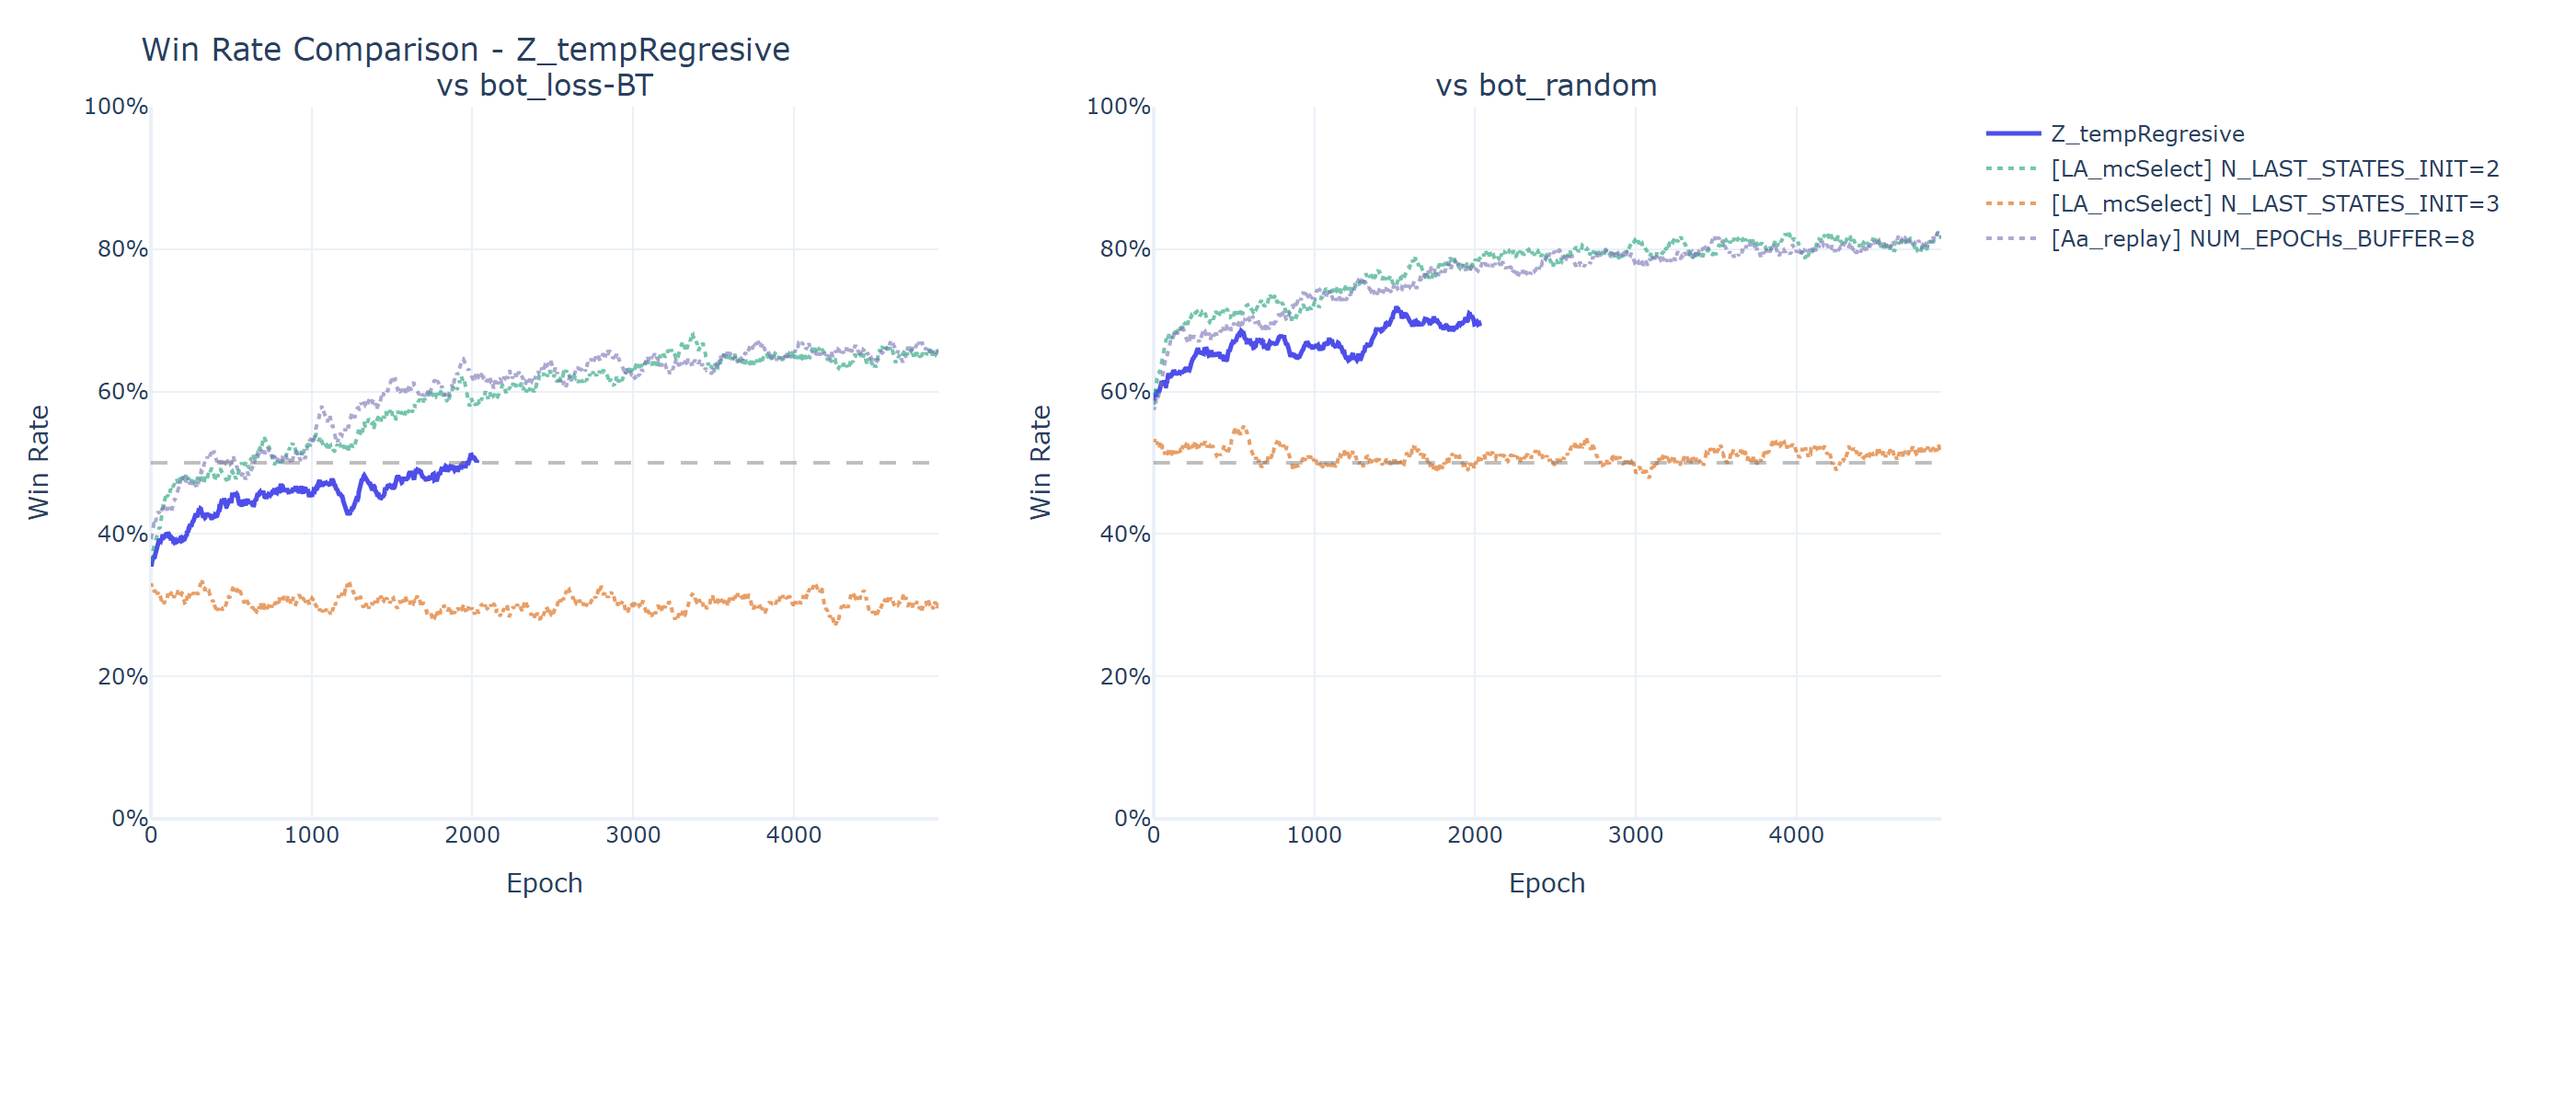
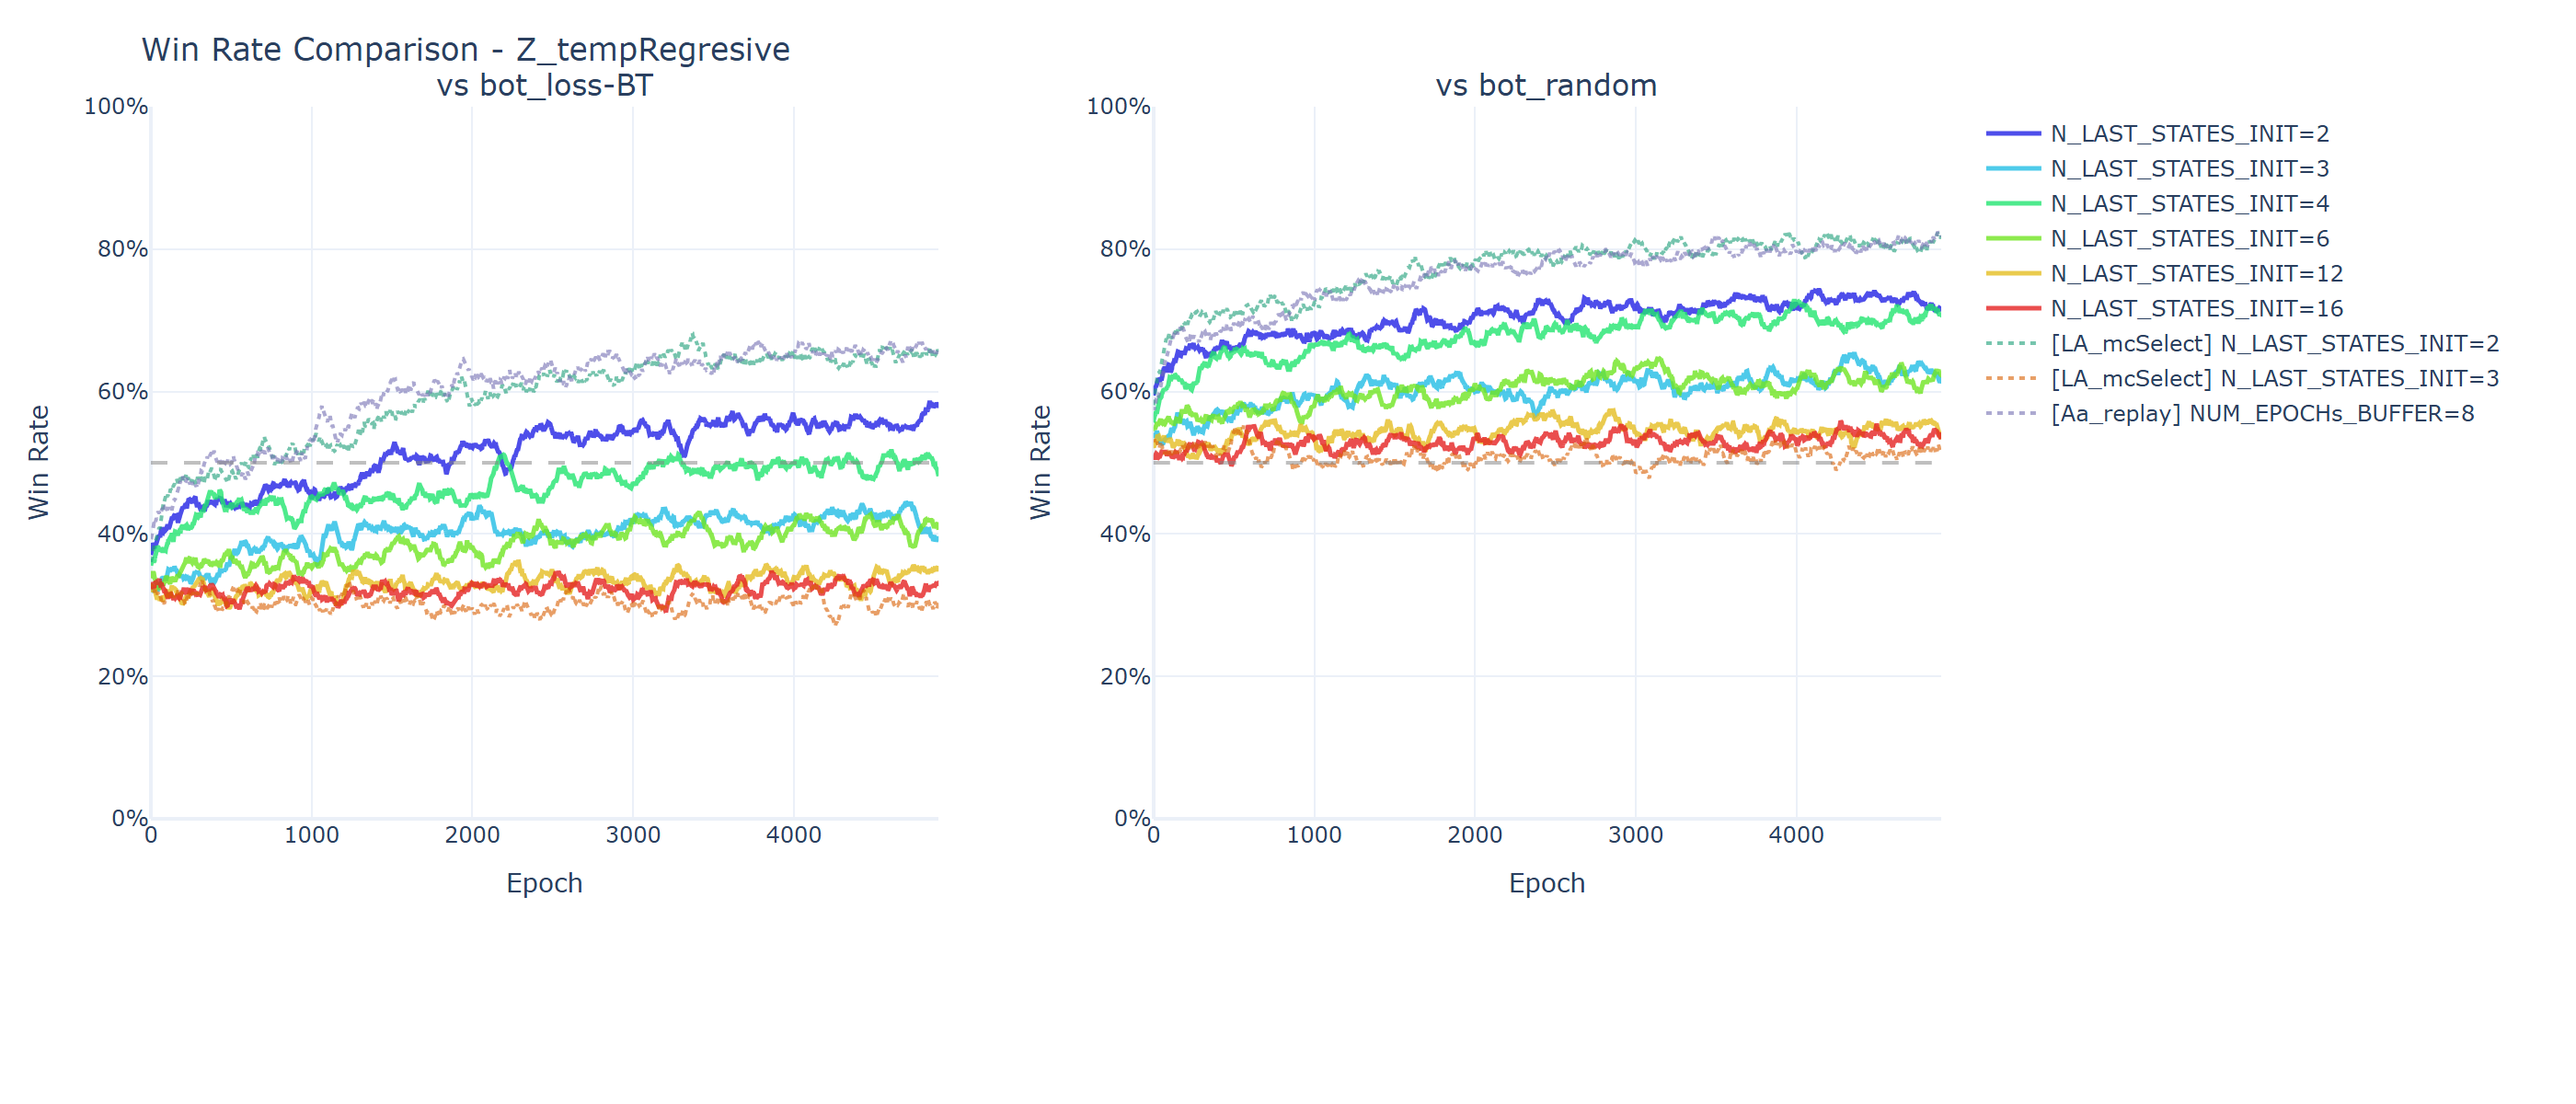
:alembic: upload Z_tempRegresive results

Changed region(s): [[0.435, 0.0925, 0.9632, 0.4317], [0.0621, 0.37, 0.3729, 0.555]]

diff --git a/tools/compare_training.py b/tools/compare_training.py
@@ -55,7 +55,7 @@ from tqdm import tqdm
 # PARAM_NAME = "N_LAST_STATES_INIT"
 
 EXPERIMENT_NAME = "Z_tempRegresive"
-PARAM_NAME = ""
+PARAM_NAME = "N_LAST_STATES_INIT"
 
 # BASELINEs: Include specific runs from previous experiments as reference points
 # Format: List of dicts mapping experiment name to list of parameter values

diff --git a/results/Z_tempRegresive/summary_Z_tempRegresive.md b/results/Z_tempRegresive/summary_Z_tempRegresive.md
@@ -1,16 +1,21 @@
 # Summary — Z_tempRegresive
 
-Generated: 2026-04-24 19:02
-Parameter varied: ``
-Runs: 1 (+ 3 baselines)
+Generated: 2026-04-26 11:01
+Parameter varied: `N_LAST_STATES_INIT`
+Runs: 6 (+ 3 baselines)
 
 Final metrics = mean over the last 10% of epochs. `Peak` = max of the smoothed win-rate curve reached at any point during training.
 
 ## Experiment runs
 
-| Run             | Param | Epochs | Final loss | Final vs bot_loss-BT | Peak vs bot_loss-BT | Final vs bot_random | Peak vs bot_random |
-|-----------------|-------|--------|------------|----------------------|---------------------|---------------------|--------------------|
-| Z_tempRegresive | =1    | 2130   | 0.3480     | 50.0%                | 51.3%               | 69.5%               | 72.0%              |
+| Run                                          | Param                 | Epochs | Final loss | Final vs bot_loss-BT | Peak vs bot_loss-BT | Final vs bot_random | Peak vs bot_random |
+|----------------------------------------------|-----------------------|--------|------------|----------------------|---------------------|---------------------|--------------------|
+| Z_tempRegresive(1)0424_N_LAST_STATES_INIT_2  | N_LAST_STATES_INIT=2  | 5000   | 0.3143     | 56.0%                | 58.7%               | 72.8%               | 74.4%              |
+| Z_tempRegresive(2)0424_N_LAST_STATES_INIT_3  | N_LAST_STATES_INIT=3  | 5000   | 0.3879     | 41.8%                | 44.6%               | 62.5%               | 65.5%              |
+| Z_tempRegresive(3)0424_N_LAST_STATES_INIT_4  | N_LAST_STATES_INIT=4  | 5000   | 0.4200     | 49.7%                | 51.9%               | 70.7%               | 72.9%              |
+| Z_tempRegresive(4)0424_N_LAST_STATES_INIT_6  | N_LAST_STATES_INIT=6  | 5000   | 0.4241     | 41.0%                | 43.2%               | 61.8%               | 64.8%              |
+| Z_tempRegresive(5)0424_N_LAST_STATES_INIT_12 | N_LAST_STATES_INIT=12 | 5000   | 0.4127     | 34.5%                | 36.4%               | 54.9%               | 57.6%              |
+| Z_tempRegresive(6)0424_N_LAST_STATES_INIT_16 | N_LAST_STATES_INIT=16 | 5000   | 0.3919     | 32.7%                | 34.9%               | 53.7%               | 55.9%              |
 
 ## Baselines
 
@@ -22,6 +27,6 @@ Final metrics = mean over the last 10% of epochs. `Peak` = max of the smoothed w
 
 ## Best runs (experiments only)
 
-- Lowest final loss: **Z_tempRegresive** — 0.3480
-- Highest final WR vs bot_loss-BT: **Z_tempRegresive** — 50.0%
-- Highest final WR vs bot_random: **Z_tempRegresive** — 69.5%
+- Lowest final loss: **Z_tempRegresive(1)0424_N_LAST_STATES_INIT_2** — 0.3143
+- Highest final WR vs bot_loss-BT: **Z_tempRegresive(1)0424_N_LAST_STATES_INIT_2** — 56.0%
+- Highest final WR vs bot_random: **Z_tempRegresive(1)0424_N_LAST_STATES_INIT_2** — 72.8%

diff --git a/results/Zpre_tempRegresive/summary_Zpre_tempRegresive.md b/results/Zpre_tempRegresive/summary_Zpre_tempRegresive.md
@@ -1,0 +1,27 @@
+# Summary — Zpre_tempRegresive
+
+Generated: 2026-04-24 19:02
+Parameter varied: ``
+Runs: 1 (+ 3 baselines)
+
+Final metrics = mean over the last 10% of epochs. `Peak` = max of the smoothed win-rate curve reached at any point during training.
+
+## Experiment runs
+
+| Run             | Param | Epochs | Final loss | Final vs bot_loss-BT | Peak vs bot_loss-BT | Final vs bot_random | Peak vs bot_random |
+|-----------------|-------|--------|------------|----------------------|---------------------|---------------------|--------------------|
+| Zpre_tempRegresive | =1    | 2130   | 0.3480     | 50.0%                | 51.3%               | 69.5%               | 72.0%              |
+
+## Baselines
+
+| Run                                     | Param                | Epochs | Final loss | Final vs bot_loss-BT | Peak vs bot_loss-BT | Final vs bot_random | Peak vs bot_random |
+|-----------------------------------------|----------------------|--------|------------|----------------------|---------------------|---------------------|--------------------|
+| LA_mcSelect(1)0422_N_LAST_STATES_INIT_2 | N_LAST_STATES_INIT=2 | 5000   | 0.0326     | 65.2%                | 68.3%               | 80.9%               | 82.5%              |
+| LA_mcSelect(2)0422_N_LAST_STATES_INIT_3 | N_LAST_STATES_INIT=3 | 5000   | 0.3220     | 30.0%                | 33.4%               | 51.5%               | 55.3%              |
+| Aa_replay(2)0226_NUM_EPOCHs_BUFFER_8    | NUM_EPOCHs_BUFFER=8  | 5000   | 0.1094     | 65.7%                | 67.1%               | 81.0%               | 82.5%              |
+
+## Best runs (experiments only)
+
+- Lowest final loss: **Zpre_tempRegresive** — 0.3480
+- Highest final WR vs bot_loss-BT: **Zpre_tempRegresive** — 50.0%
+- Highest final WR vs bot_random: **Zpre_tempRegresive** — 69.5%
